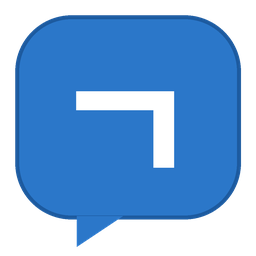
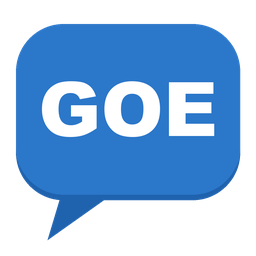
2.0: 이름이 '브리티 속 GOE'로 — README·사용법·아이콘·Brity 탭 안내 그림

Changed region(s): [[0.0312, 0.0312, 0.9688, 0.9688], [0.1562, 0.3125, 0.8438, 0.6562]]

diff --git a/README.md b/README.md
@@ -1,13 +1,15 @@
-# <img src="icon.png" width="36" alt="" align="top"> ㄱ할게 GOE
+# <img src="icon.png" width="36" alt="" align="top"> 브리티 속 GOE
 
 GOE메신저의 대화와 쪽지를 메신저 없이 열어 보고, 엑셀(CSV)로 뽑는 프로그램입니다.
 GOE메신저가 종료된 뒤에도 내 기록을 계속 보관하고 찾아볼 수 있고, Brity 메신저 안에 탭으로 넣어서 볼 수도 있습니다.
 교실을 옮길 때는 기록과 받은 파일(첨부파일)을 USB에 담아 새 PC로 가져갑니다.
 모든 처리가 내 PC 안에서만 이루어지고, 기록(쪽지·대화·이름)은 PC 밖으로 나가지 않습니다.
 
-made by [문수네집](https://moonsunezip.com) · [Instagram](https://www.instagram.com/moonsune.zip/)
+made by [문수네집](https://moonsunezipbrand.vercel.app/) · [컨텐츠사이트](https://moonsunezip.com) · [Instagram](https://www.instagram.com/moonsune.zip/)
 
-> 이 저장소에는 **Brity 탭에서 보기**가 들어간 새 버전(1.8)을 올려 두었습니다.
+> **2.0부터 이름이 '브리티 속 GOE'에서 '브리티 속 GOE'로 바뀌었습니다.** 쓰던 기록·설정은 그대로 이어지고, 새 설치판을 실행하면 바로가기도 새 이름으로 바뀝니다.
+>
+> 이 저장소에는 **Brity 탭에서 보기**가 들어간 새 버전(2.0)을 올려 두었습니다.
 > Brity 탭 기능은 실제 Brity 환경에서 확인하는 중입니다. 이전 버전(1.2)은 [goe-viewer](https://github.com/moonsugugu/goe-viewer)에 있습니다.
 
 ## 내려받기
@@ -60,22 +62,22 @@ Brity 워크스페이스에 탭을 하나 만들어 두면, 이 프로그램을 
 2. **주소 복사**를 누릅니다.
 3. Brity에 탭을 만듭니다.
 
-![주소 복사, Brity 탭 줄의 더하기 단추, 웹사이트 탭 추가 창, 만들어진 ㄱ할게 GOE 탭을 차례로 보여 주는 그림](brity-guide.gif)
+![주소 복사, Brity 탭 줄의 더하기 단추, 웹사이트 탭 추가 창, 만들어진 브리티 속 GOE 탭을 차례로 보여 주는 그림](brity-guide.gif)
 
 순서를 보여 주는 그림입니다. 실제 Brity 화면과는 모양이 조금 다릅니다. 같은 그림이 프로그램 안에도 있습니다.
 
    1. Brity에서 나만 들어 있는 워크스페이스의 채널을 엽니다. 없으면 **새 워크스페이스 만들기**로 하나 만듭니다.
    2. 채널 위쪽의 `메시지 · 공지 · 파일 · 링크` 탭 줄 끝에 있는 **+** 를 누릅니다. 창이 좁으면 탭 줄의 펼침 목록 안에 '웹사이트 탭 추가'로 들어 있습니다.
-   3. **웹사이트 탭 추가** 창의 '탭 이름'에 `ㄱ할게 GOE`라고 적습니다. 10자까지 됩니다.
+   3. **웹사이트 탭 추가** 창의 '탭 이름'에 `브리티 속 GOE`라고 적습니다. 10자까지 됩니다.
    4. 'URL 주소' 칸의 `https://` 뒤를 누르고 Ctrl+V로 붙여넣습니다. 주소가 `index.html`로 끝나면 맞습니다.
-   5. **추가**를 누릅니다. 탭 줄에 ㄱ할게 GOE가 생기고, 그 탭을 누르면 기록이 보입니다.
+   5. **추가**를 누릅니다. 탭 줄에 브리티 속 GOE가 생기고, 그 탭을 누르면 기록이 보입니다.
 
 잘 안 될 때
 
 - 빨간 글씨 '형식이 유효하지 않습니다.'가 뜨면 주소가 `index.html`로 끝나는지 봅니다. **주소 복사**를 다시 눌러 붙여넣으세요. `https://`가 두 번 들어가도 이렇게 나옵니다.
 - 탭은 생겼는데 기록 대신 '아래의 경우 사이트가 정상적으로 열리지 않을 수 있습니다.'가 보이면 이 PC의 Brity 연결이 꺼져 있는 것입니다. 프로그램에서 '켜져 있습니다'인지 확인하고 Brity에서 **새로고침**을 누릅니다.
 - 기록 위쪽의 '사이트가 정상적으로 열리지 않는 경우, 여기를 클릭하십시오.'는 Brity가 늘 보여 주는 안내입니다. 오른쪽 ×로 닫으면 됩니다.
-- 주소를 고치거나 탭을 지우려면 ㄱ할게 GOE 탭을 마우스 오른쪽 단추로 눌러 **편집**이나 **삭제**를 고릅니다.
+- 주소를 고치거나 탭을 지우려면 브리티 속 GOE 탭을 마우스 오른쪽 단추로 눌러 **편집**이나 **삭제**를 고릅니다.
 
 알아 둘 점
 
@@ -97,7 +99,7 @@ Brity 연결을 켜 두면 워크스페이스에 탭을 세 개까지 만들 수
 
 | 탭 이름 | 주소 | 들어 있는 것 |
 |---|---|---|
-| ㄱ할게 GOE | `…/index.html` | 쪽지·대화 기록 보기 |
+| 브리티 속 GOE | `…/index.html` | 쪽지·대화 기록 보기 |
 | 작년 이맘때 | `…/index.html#year` | 작년 이맘때 + 우리 학교 1년 |
 | 기록 묻기 | `…/index.html#helper` | 지난 기록에 묻기 + 상용구 |
 
@@ -140,7 +142,7 @@ USB에는 이렇게 들어갑니다.
 
 **② 새 PC에서: USB에서 꺼내기**
 
-1. 새 PC에 ㄱ할게 GOE를 설치하고, USB를 꽂은 뒤 **새 교실에서 USB 불러오기**를 누릅니다.
+1. 새 PC에 브리티 속 GOE를 설치하고, USB를 꽂은 뒤 **새 교실에서 USB 불러오기**를 누릅니다.
 2. USB를 고르고 이름을 입력한 뒤 **기록 넣기**를 누릅니다. 기록이 `문서\백업_Exports`에 들어갑니다.
 3. **받은 파일 넣기**를 누릅니다. 받은 파일이 `문서\GOE메신저`에 들어갑니다. 다른 곳에 두려면 **다른 폴더로 바꾸기**로 고릅니다.
 4. **기록 열기**를 누릅니다. 이제 USB는 뽑아도 됩니다. 다음부터는 **추출 없이 시작하기**로 열립니다.
